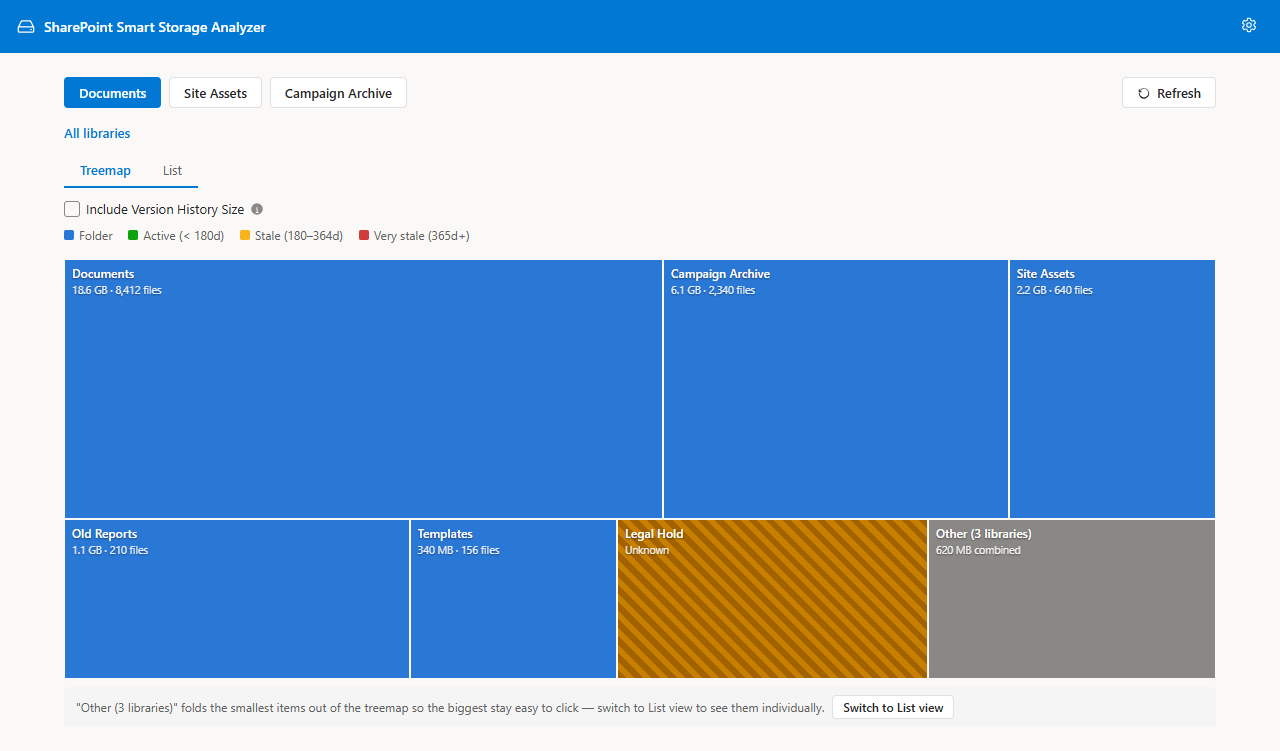
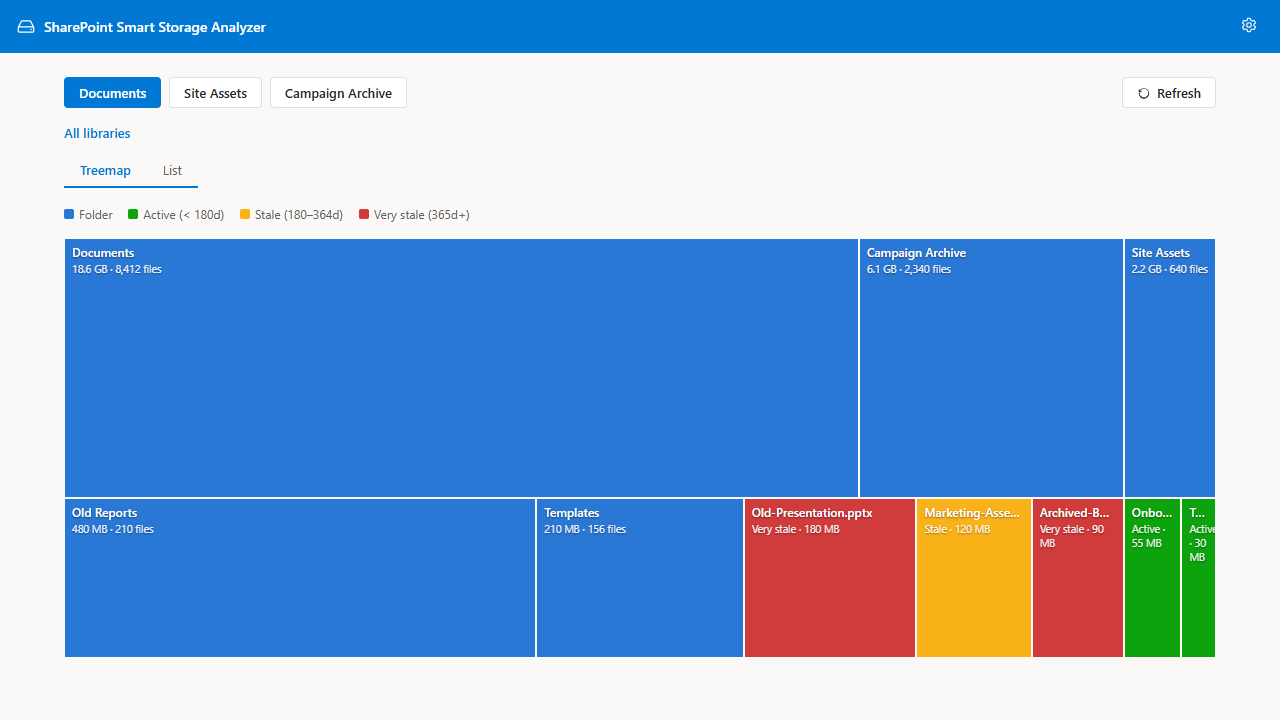
v1.3.1 Release

diff --git a/docs/generate-screenshots.js b/docs/generate-screenshots.js
@@ -143,17 +143,24 @@ function homePage(imgDataUris) {
 
 // ── 1. Explorer — Treemap view (site-wide library treemap, the opening view) ──
 function explorerTreemapPage() {
+  // Widths within each row are proportional to the size shown in that cell's
+  // own label — e.g. top row is 18.6 : 6.1 : 2.2 GB, which is 69% : 23% : 8%
+  // of that row's total, matching real treemap behavior (square size = storage
+  // weight). Each row's widths sum to 100 independently — see the note below.
   const cells = [
-    { l: 0, t: 0, w: 52, h: 62, color: FOLDER_COLOR, name: 'Documents', sub: '18.6 GB · 8,412 files' },
-    { l: 52, t: 0, w: 30, h: 62, color: FOLDER_COLOR, name: 'Campaign Archive', sub: '6.1 GB · 2,340 files' },
-    { l: 82, t: 0, w: 18, h: 62, color: FOLDER_COLOR, name: 'Site Assets', sub: '2.2 GB · 640 files' },
-    // Bottom row widths MUST sum to 100 — they previously summed to 78,
-    // leaving an uncovered 22%-wide strip of background on the right that
-    // made the treemap read as a ragged shape instead of a filled rectangle.
-    { l: 0, t: 62, w: 30, h: 38, color: FOLDER_COLOR, name: 'Old Reports', sub: '1.1 GB · 210 files' },
-    { l: 30, t: 62, w: 18, h: 38, color: FOLDER_COLOR, name: 'Templates', sub: '340 MB · 156 files' },
-    { l: 48, t: 62, w: 27, h: 38, color: '#c77f00', name: 'Legal Hold', sub: 'Unknown', pattern: true },
-    { l: 75, t: 62, w: 25, h: 38, color: OTHER_COLOR, name: 'Other (3 libraries)', sub: '620 MB combined' },
+    { l: 0, t: 0, w: 69, h: 62, color: FOLDER_COLOR, name: 'Documents', sub: '18.6 GB · 8,412 files' },
+    { l: 69, t: 0, w: 23, h: 62, color: FOLDER_COLOR, name: 'Campaign Archive', sub: '6.1 GB · 2,340 files' },
+    { l: 92, t: 0, w: 8, h: 62, color: FOLDER_COLOR, name: 'Site Assets', sub: '2.2 GB · 640 files' },
+    // Bottom row: 480 : 210 : 180 : 120 : 90 : 55 : 30 MB → 41 : 18 : 15 : 10 :
+    // 8 : 5 : 3 (rounded, sums to 100) — widths MUST sum to 100 or an
+    // uncovered strip of background breaks the filled-rectangle look.
+    { l: 0, t: 62, w: 41, h: 38, color: FOLDER_COLOR, name: 'Old Reports', sub: '480 MB · 210 files' },
+    { l: 41, t: 62, w: 18, h: 38, color: FOLDER_COLOR, name: 'Templates', sub: '210 MB · 156 files' },
+    { l: 59, t: 62, w: 15, h: 38, color: TIER.veryStale, name: 'Old-Presentation.pptx', sub: 'Very stale · 180 MB' },
+    { l: 74, t: 62, w: 10, h: 38, color: TIER.stale, name: 'Marketing-Assets.zip', sub: 'Stale · 120 MB' },
+    { l: 84, t: 62, w: 8, h: 38, color: TIER.veryStale, name: 'Archived-Budget.xlsx', sub: 'Very stale · 90 MB' },
+    { l: 92, t: 62, w: 5, h: 38, color: TIER.active, name: 'Onboarding-Guide.pdf', sub: 'Active · 55 MB' },
+    { l: 97, t: 62, w: 3, h: 38, color: TIER.active, name: 'Team-Photo.jpg', sub: 'Active · 30 MB' },
   ];
   const cellsHtml = cells.map((c) => `
     <div style="position:absolute;left:${c.l}%;top:${c.t}%;width:${c.w}%;height:${c.h}%;background:${c.pattern ? 'repeating-linear-gradient(45deg,#a36200,#a36200 6px,#c77f00 6px,#c77f00 12px)' : c.color};border:1px solid ${NEUTRAL.bg};box-sizing:border-box;padding:5px 7px;overflow:hidden;">
@@ -180,10 +187,6 @@ function explorerTreemapPage() {
     ${tierLegend(true)}
     <div style="position:relative;width:100%;height:420px;background:${NEUTRAL.tileBg};margin-bottom:8px;">
       ${cellsHtml}
-    </div>
-    <div style="display:flex;align-items:center;gap:8px;font-size:12px;color:${NEUTRAL.text2};background:${NEUTRAL.tileBg};border-radius:4px;padding:8px 12px;">
-      <span>"Other (3 libraries)" folds the smallest items out of the treemap so the biggest stay easy to click — switch to List view to see them individually.</span>
-      <button class="btn" style="padding:3px 10px;font-size:12px;white-space:nowrap;">Switch to List view</button>
     </div>`;
   return pageShell(body, {});
 }

diff --git a/USER-GUIDE.md b/USER-GUIDE.md
@@ -107,10 +107,10 @@ The breadcrumb always starts at **All libraries**; click it to return to the sit
 - **Square size = storage weight.** Bigger rectangles use more space. Libraries and folders are shown in blue; files are colored by their [archival status](#understanding-archival-status). A striped square means the size couldn't be determined — see the note above (at library level) or the throttling note below (at folder level).
 - **Click a library or folder** to drill into it — the treemap updates to show that item's own contents.
 - **Folder cells show their size and file count** (e.g. "24.6 MB · 138 files") when the cell is large enough to fit the text; smaller cells still show at least the name, and hovering any cell shows full detail in a tooltip.
-- **A size starting with "≥"** (e.g. "≥ 340 MB") means the folder is larger than shown but measuring it further ran into this view's request budget before it could finish — it's a floor, not an estimate. Open the folder directly to measure deeper, or raise **Concurrent API requests** in Settings so more gets measured before the budget is reached. This is distinct from **"Unknown"**, which means nothing could be measured at all.
+- **A size starting with "≥"** (e.g. "≥ 340 MB") means the measurement was stopped before this folder's subtree was fully counted — either you clicked **Cancel**, or you navigated away mid-measurement — so it's a floor, not an estimate. Open the folder again (or click **Refresh**) to measure it in full. This is distinct from **"Unknown"**, which means nothing could be measured at all.
 - The smallest items are floored to a minimum on-screen size so they stay easy to click even on a site with many small files — treemap proportions favor clickability slightly over strict mathematical precision for the tiniest items.
-- **"Other (N items)"** appears when a folder has more items than the treemap can usefully draw as separate squares — the smallest ones are folded into a single gray cell instead of being drawn as slivers too small to see or click. Hovering it explains what's inside; a note above the treemap offers a one-click **Switch to List view** button, since the List view has no such folding and shows every item individually.
-- While a folder's sizes are loading, a progress bar with a live **"N of M folders"** counter is shown instead of the treemap; the treemap appears once every size has resolved.
+- **"Other (N items)"** appears when a folder has more items than the treemap can usefully draw as separate squares — the smallest ones are folded into a single gray cell instead of being drawn as slivers too small to see or click. Hovering it explains what's inside, including how much of that combined total is version history when applicable; a note above the treemap offers a one-click **Switch to List view** button, since the List view has no such folding and shows every item individually.
+- While a library's contents are loading, a progress bar (with a live count of items read so far, and elapsed time) is shown instead of the treemap; the treemap appears once the whole library has been read. There's no time limit — click **Cancel** to stop and keep whatever was measured so far.
 
 ### The List View
 
@@ -247,7 +247,7 @@ Open **Settings** from the gear icon in the top-right corner of the header on an
 
 | Setting | Default | Description |
 |---------|---------|-------------|
-| **Concurrent API requests** | 6 | How many SharePoint API requests run in parallel during scans and folder loads (1–15). SharePoint's throttling threshold is dynamic, not a fixed number Microsoft publishes — the app retries automatically on throttling (HTTP 429/503/406) with an escalating backoff, but very high values can still net out slower than a moderate one. This also sizes how much Tree View / List View can measure before a fallback folder/library walk hits its request budget — raising it lets a walk go deeper before falling back to a "≥" (at least) result. |
+| **Concurrent API requests** | 6 | How many SharePoint API requests run in parallel during scans and folder loads (1–15). SharePoint's throttling threshold is dynamic, not a fixed number Microsoft publishes — the app retries automatically on throttling (HTTP 429/503/406) with an escalating backoff, but very high values can still net out slower than a moderate one. |
 
 If you see scans getting *slower* rather than faster as you raise this, that's throttling — turn it back down rather than waiting it out.
 

diff --git a/README.md b/README.md
@@ -27,7 +27,7 @@ Two entry points into the same screen — a WizTree-style treemap of every docum
 | Feature | Description |
 |---|---|
 | **Site-wide library treemap** | Opening view sizes every library on the site by its storage rollup, answering "which library is the storage in?" before any drill-down. Libraries SharePoint hasn't yet reported a size for render as "Unknown" and are measured exactly on open — deliberately, so the root view costs one probe per library rather than a full site walk |
-| **Treemap drill-down** | Click any library or folder square to zoom into it; square size reflects storage weight at a glance. A folder measured only partially (its walk hit this view's request budget) shows as "≥ &lt;size&gt;" — a floor, not an estimate — distinct from "Unknown" (nothing could be measured) |
+| **Treemap drill-down** | Click any library or folder square to zoom into it; square size reflects storage weight at a glance. A folder measured only partially (the measurement was canceled, by you or by navigating away mid-scan) shows as "≥ &lt;size&gt;" — a floor, not an estimate — distinct from "Unknown" (nothing could be measured) |
 | **"Other" folding** | Folders/libraries beyond the largest ~40 fold into a single "Other (N items)" cell instead of drawing slivers too small to see or click; a note above the treemap offers one click through to the List view, which shows every item individually |
 | **Library switcher** | A button row switches between every document library on the site without leaving the view; a **Recycle Bin** entry shows the site's first-stage recycle bin (not the site collection recycle bin) |
 | **Refresh** | Clears cached folder/library sizes for the current site and re-measures what's on screen, for when content has changed since the last load |
@@ -145,7 +145,7 @@ To change web part settings, put the page in **Edit** mode, click the web part p
 
 | Setting | Default | Description |
 |---|---|---|
-| **Concurrent API requests** | 6 | How many SharePoint API requests run in parallel during scans and folder loads (1–15). SharePoint's throttling limit is dynamic, not fixed — the app retries automatically on throttling (HTTP 429/503/406), but very high values can still net out slower. Also sizes how deep Tree View / List View's fallback folder/library measurement goes before falling back to a "≥" (at least) result |
+| **Concurrent API requests** | 6 | How many SharePoint API requests run in parallel during scans and folder loads (1–15). SharePoint's throttling limit is dynamic, not fixed — the app retries automatically on throttling (HTTP 429/503/406), but very high values can still net out slower |
 
 ---
 

diff --git a/CHANGELOG.md b/CHANGELOG.md
@@ -97,6 +97,14 @@ All notable changes to this project are documented here.
   one fits, and no longer deletes them when the failure wasn't about space.
 - **The "Default view on open" property pane field** now uses SPFx's standard dropdown control
   instead of a hand-built one that relied on an internal, undocumented field-type number.
+- **The Treemap's hover tooltip and on-square text now show a file's version-history size even
+  when it wasn't individually measured.** SharePoint's own bulk version-size field is populated by
+  a lagging background job and can simply be missing for a given file's row (most often a recently
+  added or changed one); this used to render identically to a confirmed 0 B, silently dropping the
+  version-history breakdown. It's now marked "≥", matching how the List View already flags the same
+  gap. The Treemap's folded-together "Other" cell (the smallest items beyond the ~40 shown
+  individually) also now includes version-history size in its combined tooltip total, instead of
+  omitting it entirely.
 
 ### Performance
 
